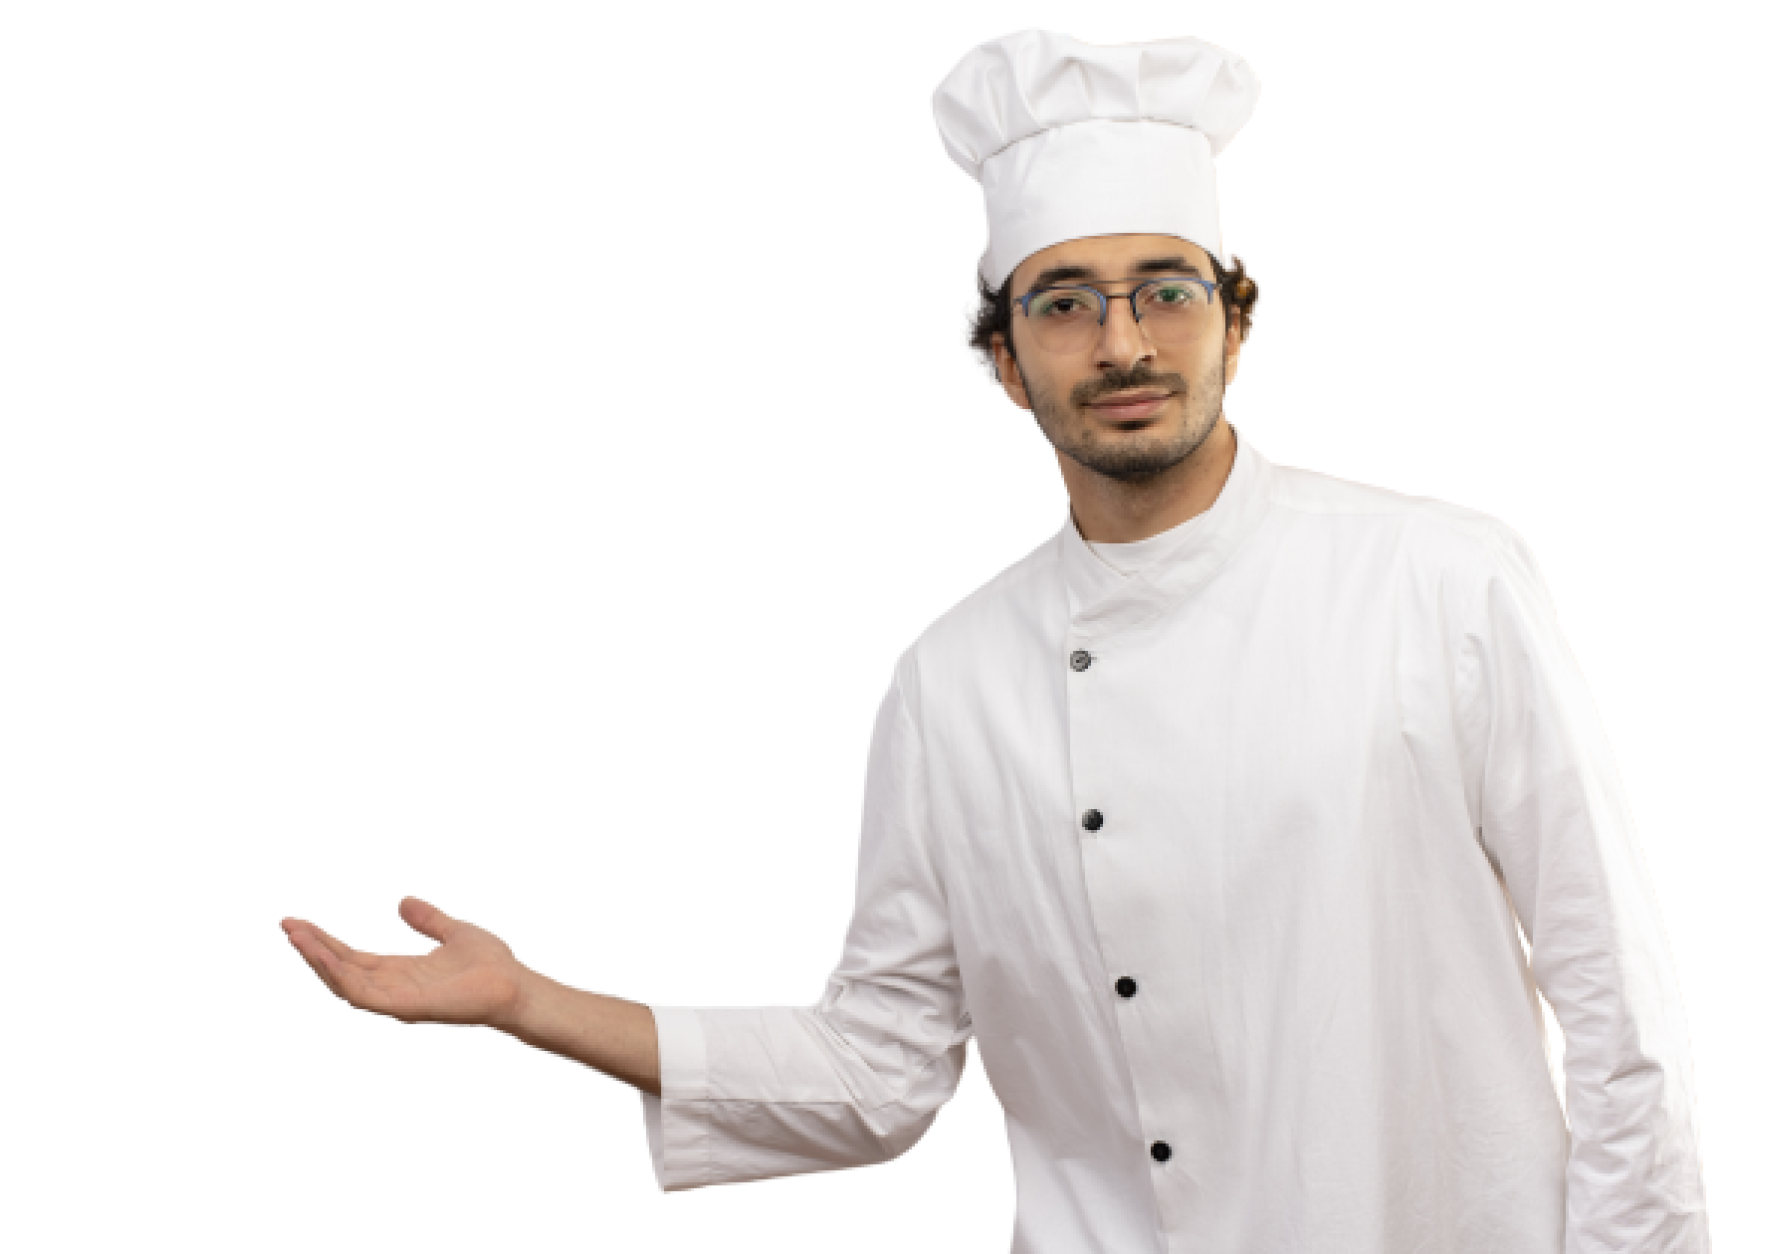
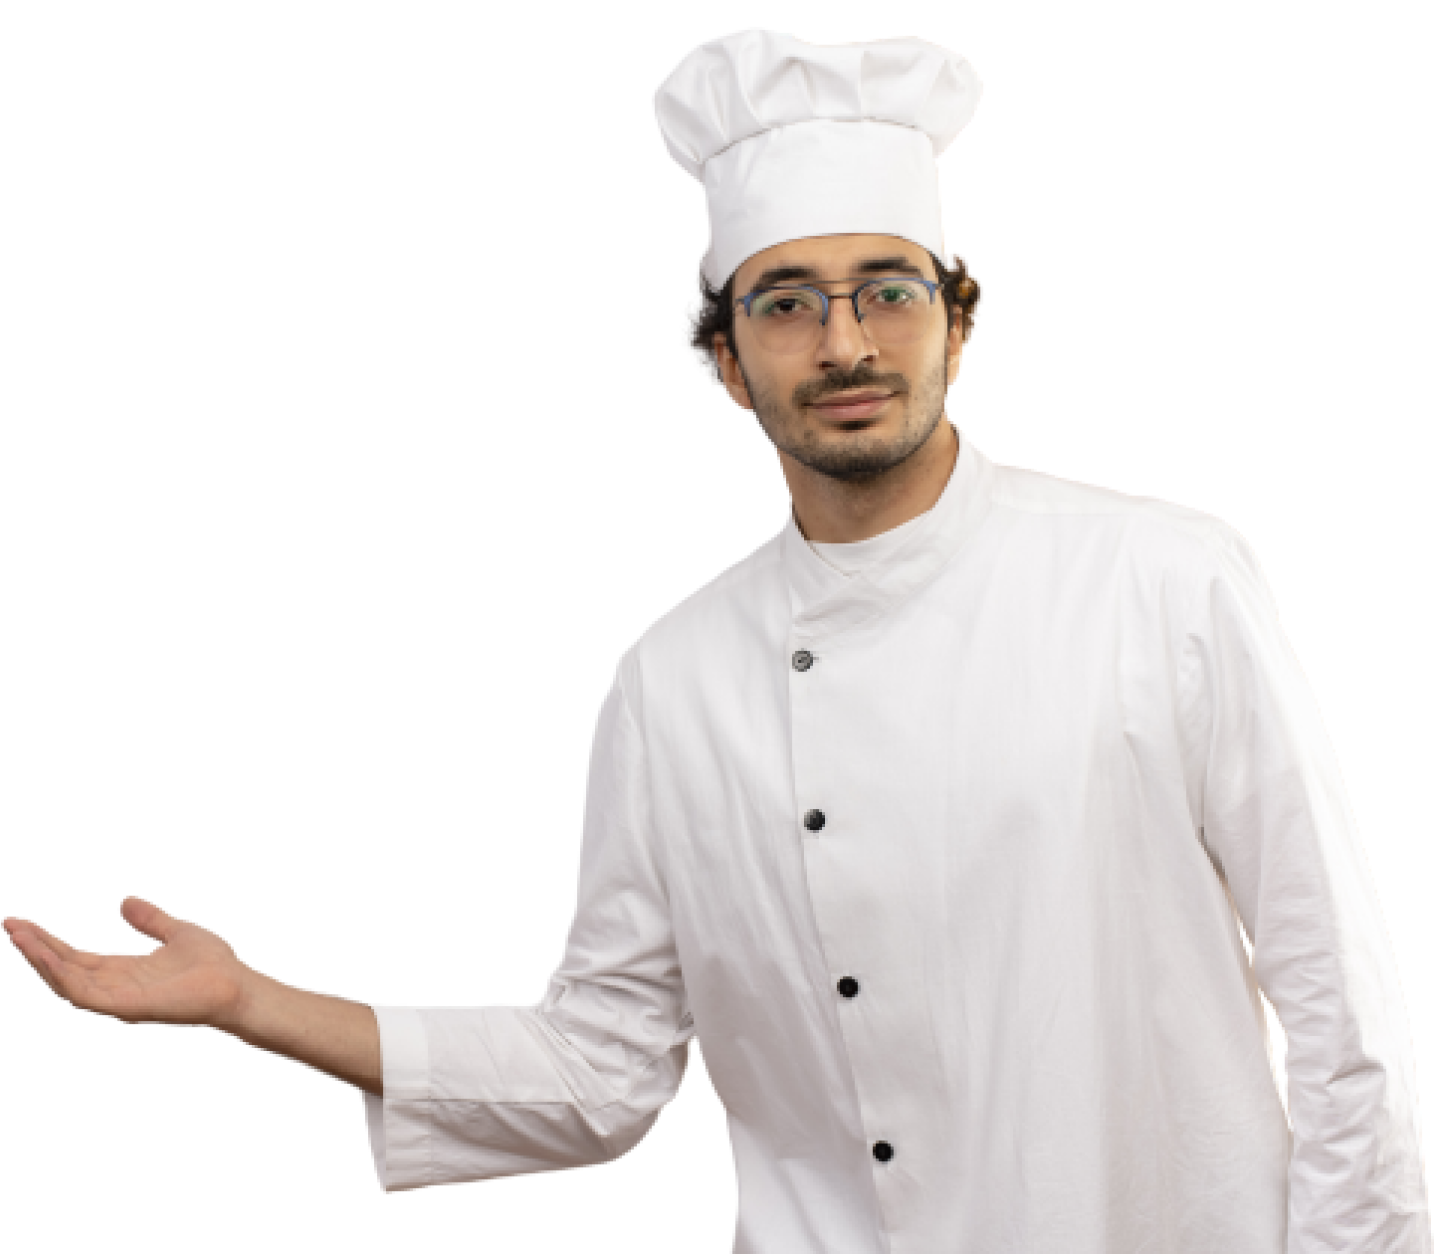
membuat file section discount

diff --git a/assets/css/style.css b/assets/css/style.css
@@ -4,7 +4,7 @@
 :root {
     /* ----- Color ----- */
     --brand-normal: #6BBE4E;
-    --brand-hover: #64af49;
+    --brand-hover: #329952;
     --brand-accent: #FCC536;
     --text-heading: #101510; 
     --text-body: #565656;
@@ -283,7 +283,7 @@ button, button:hover, button:focus {
     background-color: var(--background-transparent);
     position: relative;
 }
-.header .count {
+.header .item-ordered {
     position: absolute;
     padding: 2px 7px;
     background-color: var(--brand-accent);
@@ -445,7 +445,7 @@ button, button:hover, button:focus {
     border-radius: 8px;
 }
 .product .card img {
-    min-height: 200px;
+    min-width: 350px;
     transform: scale(1);
     transition-duration: 3s;
 }
@@ -503,6 +503,42 @@ button, button:hover, button:focus {
 }
 /* Product End */
 
+/* Discount Start */
+.container-fluid.not-header.discount {
+    background: linear-gradient(180deg, #EEECEF 70%, var(--brand-hover) 10%);
+    padding-bottom: 0;
+    height: 650px;
+    overflow: hidden;
+    text-align: center;
+}
+.container-fluid.not-header.discount .container {
+    padding-bottom: 0;
+    position: relative;
+}
+.container-fluid.not-header.discount h1 {
+    font-size: var(--big-font-size);
+}
+.container-fluid.not-header.discount h3 {
+    font-weight: var(--font-reguler);
+    font-size: var(--small-font-size);
+}
+.container-fluid.not-header.discount h3 span {
+    color: var(--brand-normal);
+}
+.container-fluid.not-header.discount .image img {
+    position: absolute;
+    bottom: 0;
+    right: 0;
+}
+.container-fluid.not-header.discount .image img:nth-child(1) {
+    display: none;
+}
+.container-fluid.not-header.discount .image img:nth-child(2) {
+    transform: scale(2);
+    margin-bottom: 90px;
+}
+/* Discount End */
+
 /* Start: Footer */
 .download {
     background-color: var(--text-heading);
@@ -538,7 +574,12 @@ button, button:hover, button:focus {
 /* End: Footer */
 
 @media (min-width:361px) {
-
+    /* Discount Start */
+    .container-fluid.not-header.discount .image img:nth-child(2) {
+        transform: scale(1.3);
+        margin-bottom: 25px;
+    }
+    /* Discount End */
 }
 
 @media (min-width:768px) {
@@ -653,11 +694,47 @@ button, button:hover, button:focus {
         align-items: center;
     }
     .card-wrapper .card {
-        width: 300px;
+        width: 230px;
         margin-bottom: 0;
     }
-    /* Product End */
+    .product .card img {
+        min-width: 250px;
     }
+    .product .card .product-img {
+        height: 150px;
+    }
+    .container.product .price {
+        font-size: var(--medium-font-size);
+    }
+    /* Product End */
+
+    /* Discount Start */
+    .container-fluid.not-header.discount {
+        background: linear-gradient(90deg, #EEECEF 70%, var(--brand-hover) 10%);
+        height: 650px;
+        overflow: unset;
+        text-align: left;
+    }
+    .container-fluid.not-header.discount h1 {
+        font-size: var(--biggest-font-size);
+    }
+    .container-fluid.not-header.discount h3 {
+        font-weight: var(--font-reguler);
+        font-size: var(--small-font-size);
+    }
+    .container-fluid.not-header.discount .image img:nth-child(1) {
+        display: block;
+    }
+    .container-fluid.not-header.discount .image img:nth-child(2) {
+        display: none;
+    }
+    /* Discount End */
+}
+@media (min-width: 1024px) {
+    .card-wrapper .card {
+        width: 275px;
+    }
+}
 
 @media (min-width:1200px) {
     /* Start Services */
@@ -670,9 +747,28 @@ button, button:hover, button:focus {
     .card-wrapper .card {
         width: 354px;
     }
+    .product .card .product-img {
+        height: 200px;
+    }
     /* Product End */
+
+    /* Discount Start */
+    .container-fluid.not-header.discount {
+        background: linear-gradient(90deg, #EEECEF 70%, var(--brand-hover) 10%);
+        height: 500px;
+        margin-top: 224px;
+    }
+    .container-fluid.not-header.discount .image img:nth-child(1) {
+        display: block;
+        width: 800px;
+    }
+    /* Discount End */
 }
 
 @media (min-width:1920px) {
-
+    /* Start: Hero */
+    .container.hero .counter {
+        margin-top: 40px;
+    }
+    /* End: Hero */
 }

diff --git a/index.html b/index.html
@@ -19,7 +19,7 @@
     />
 
     <!-- Custom Style CSS -->
-    <link rel="stylesheet" href="/assets/css/style.css" type="text/css" />
+    <link rel="stylesheet" href="assets/css/style.css" type="text/css" />
 
     <link rel="shortcut icon" href="/assets/img/brand/favicon-sepiring.png" />
     <title>Sepiring</title>
@@ -135,7 +135,7 @@
               <button
                 class="cart d-flex justify-content-center align-content-center"
               >
-                <span class="count">2</span>
+                <span class="item-ordered">2</span>
                 <i class="bi bi-cart2"></i>
               </button>
             </div>
@@ -148,7 +148,7 @@
     <!-- Hero Start -->
     <div class="container hero">
       <div class="row align-items-center justify-content-between">
-        <div class="col-md-5">
+        <div class="col-md-6">
           <h3 class="subtitle">
             <svg
               width="24"
@@ -420,16 +420,30 @@
     <!-- Product End -->
 
     <!-- Discount Start -->
-    <div class="container-fluid not-hero not-header discount">
-      <div class="col-md-5 heading">
-        <h2 class="amount">Discount 75%</h2>
-        <h3 class="coupon">COUPON: <span>SPRNGDAY</span></h3>
-        <p class="date">Valid until 20 days later</p>
-
-        <button class="btn btn-fzn btn-fzn-border">Use The Coupon</button>
-      </div>
-      <div class="col-md-7 image">
-        <img src="/assets/img/chef/chef-greting.png" alt="" />
+    <div
+      class="
+        container-fluid
+        not-hero not-header
+        discount
+        d-flex
+        justify-content-center
+      "
+    >
+      <div class="container">
+        <div class="row">
+          <div class="col-md-5 heading">
+            <h1 class="amount">Discount 75%</h1>
+            <h3 class="coupon">COUPON: <span>SPRNGDAY</span></h3>
+            <p class="date">Valid until 20 days later</p>
+            <button class="btn btn-fzn btn-fzn-filled my-3">
+              Use The Coupon
+            </button>
+          </div>
+          <div class="col-md-7 image">
+            <img src="/assets/img/chef/chef-greting.png" alt="" />
+            <img src="/assets/img/chef/chef-lookup.png" alt="" />
+          </div>
+        </div>
       </div>
     </div>
     <!-- Discount End -->
